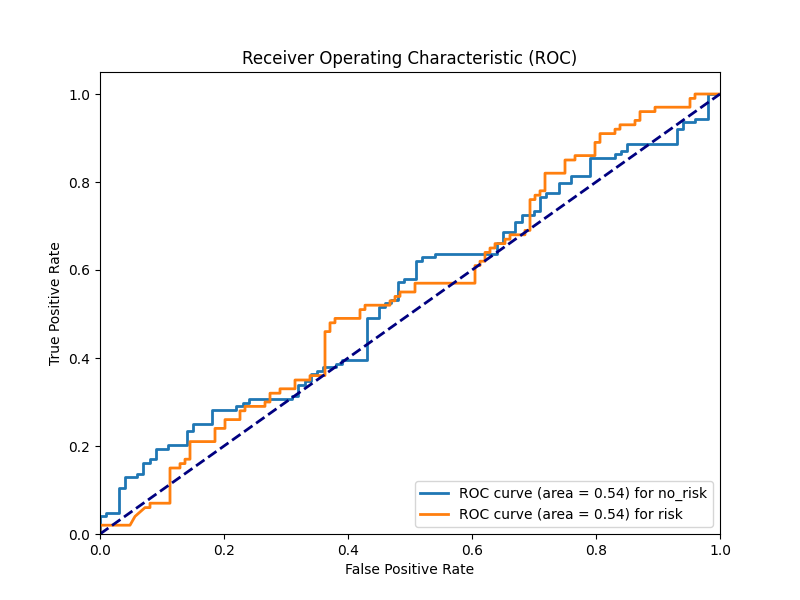
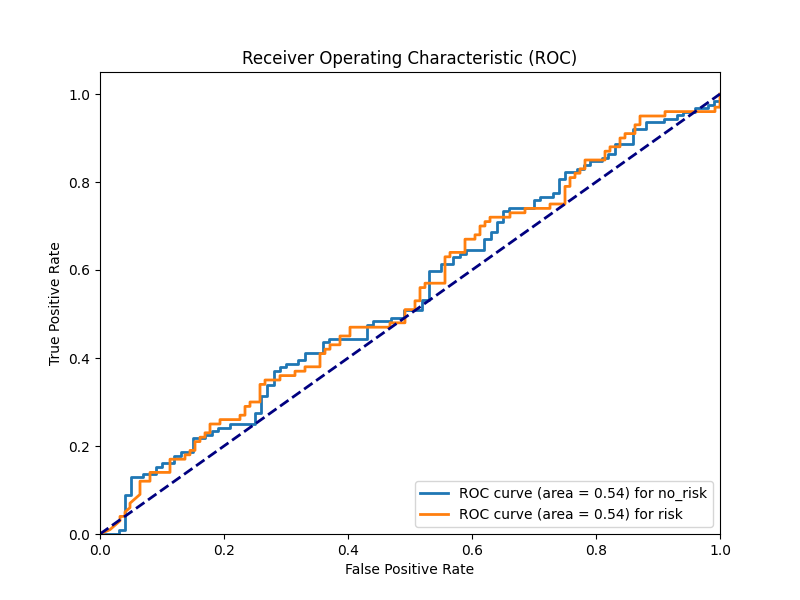
Final
Finalización de entrenamientos y pruebas

Changed region(s): [[0.125, 0.15, 0.9062, 0.9]]

diff --git a/trainVGG19.py b/trainVGG19.py
@@ -40,7 +40,7 @@ test_data_gen = ImageDataGenerator(
 # Generar los datos de entrenamiento
 train_generator = train_data_gen.flow_from_directory(
     train_dir,
-    target_size=(250, 250),
+    target_size=(150, 150),
     batch_size=BATCH_SIZE,
     color_mode="rgb",
     class_mode='categorical', shuffle=True
@@ -48,7 +48,7 @@ train_generator = train_data_gen.flow_from_directory(
 
 valid_generator = valid_data_gen.flow_from_directory(
     valid_dir,
-    target_size=(250, 250),
+    target_size=(150, 150),
     batch_size=BATCH_SIZE,
     color_mode="rgb",
     class_mode='categorical', shuffle=True
@@ -56,13 +56,13 @@ valid_generator = valid_data_gen.flow_from_directory(
 
 test_generator = test_data_gen.flow_from_directory(
     test_dir,
-    target_size=(250, 250),
+    target_size=(150, 150),
     batch_size=BATCH_SIZE,
     color_mode="rgb",
     class_mode='categorical', shuffle=True
 )
 
-vgg = tf.keras.applications.VGG19(input_shape=(250,250,3),include_top=False,weights="imagenet")
+vgg = tf.keras.applications.VGG19(input_shape=(150,150,3),include_top=False,weights="imagenet")
 
 vgg.summary()
 
@@ -80,7 +80,7 @@ model.compile(
 # Entrenar el modelo con los generadores
 history_model = model.fit(train_generator, 
                           validation_data=valid_generator, 
-                          epochs=1, 
+                          epochs=50, 
                           steps_per_epoch=train_generator.n//BATCH_SIZE,
                           validation_steps=valid_generator.n//BATCH_SIZE)
 

diff --git a/trainvVGG16.py b/trainvVGG16.py
@@ -80,7 +80,7 @@ model.compile(
 # Entrenar el modelo con los generadores
 history_model = model.fit(train_generator, 
                           validation_data=valid_generator, 
-                          epochs=1, 
+                          epochs=50, 
                           steps_per_epoch=train_generator.n//BATCH_SIZE,
                           validation_steps=valid_generator.n//BATCH_SIZE)
 

diff --git a/trainCNN.py b/trainCNN.py
@@ -77,7 +77,7 @@ model.compile(
 history_model = model.fit(train_generator, validation_data=valid_generator, epochs=10)
 
 # Guardar el modelo
-model.save(f'Entrenamientos/CNN_Modelo8.h5')
+model.save(f'Entrenamientos/CNN_Modelo9.h5')
 
 test_loss, test_accuracy = model.evaluate(test_generator)
 print(f'Accuracy: {test_accuracy}')
